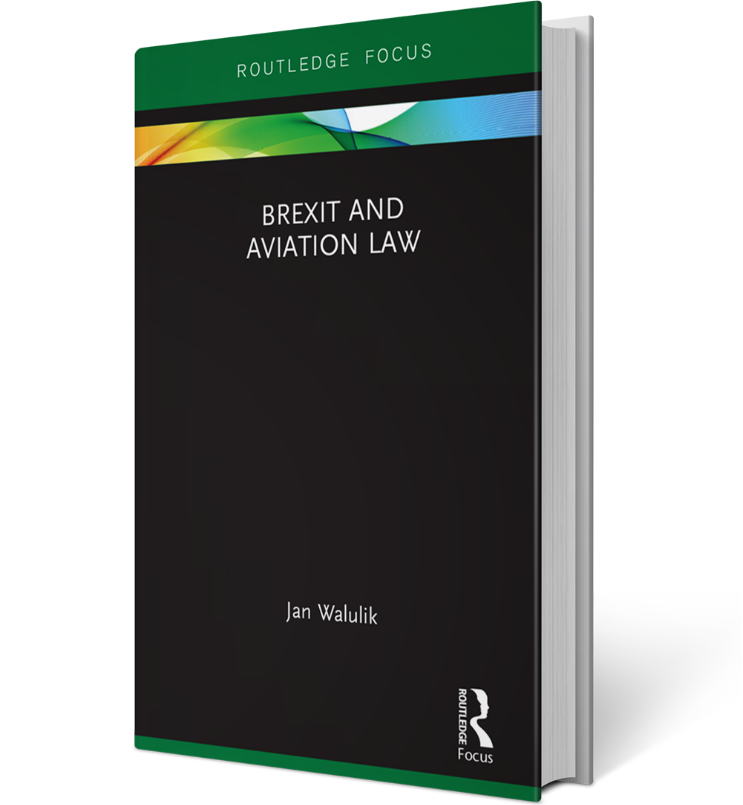
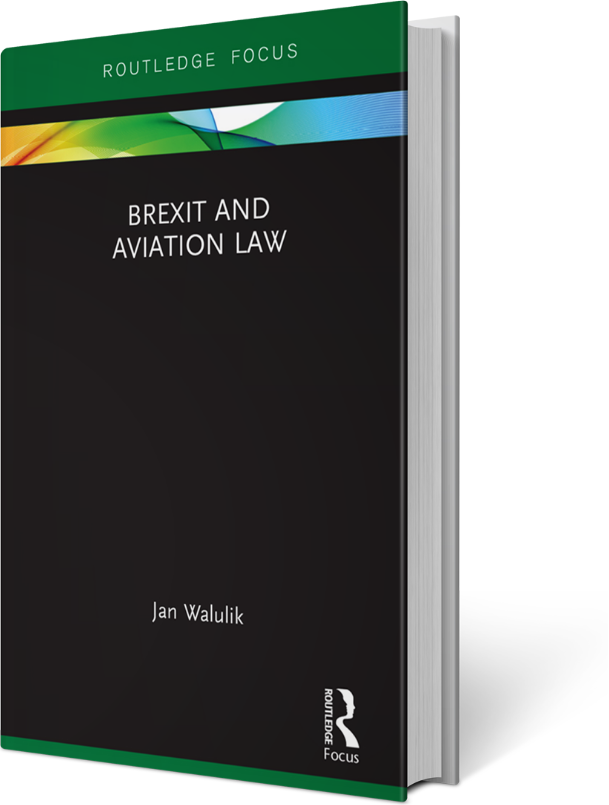
dynamic book images on home page

diff --git a/src/templates/home/carousel/carousel.tsx b/src/templates/home/carousel/carousel.tsx
@@ -1,77 +1,107 @@
 import styled from "@emotion/styled"
 import React, { useState } from "react"
-import { graphql, useStaticQuery } from "gatsby"
-import Img from "gatsby-image"
+import { graphql, useStaticQuery, Link } from "gatsby"
 
-import { CarouselCounter } from "./carousel-counter";
-import { CarouselArrows } from "./carousel-arrows";
+import { CarouselCounter } from "./carousel-counter"
+import { CarouselArrows } from "./carousel-arrows"
+import { spacings } from "../../../constants"
 
 export function modulo(mod: number): (n: number) => number {
-  return (n: number) => ((n % mod) + mod) % mod;
+  return (n: number) => ((n % mod) + mod) % mod
 }
 
 const CarouselMain = styled.div`
   display: flex;
   justify-content: center;
-`;
+  margin-bottom: ${spacings.space40}px;
+`
+
+const NavigationSC = styled.div`
+  margin-right: ${spacings.space80}px;
+`
 
 const CarouselArrowsContainer = styled.div`
   margin-bottom: 70px;
-`;
+`
 
 const Books = styled.div`
-  display: flex;
-  justify-content: center;
-  margin-top: -35px;
-`; 
+  display: grid;
+  width: 100%;
+  grid-template-columns: repeat(3, 33%);
+`
 
 const BookContainer = styled.div`
-  height: 400px;
-  width: 300px;
-  &:not(:first-child) {
-    margin-left: -40px;
+  img {
+    max-width: 100%;
   }
-`; 
+`
 
 export const Carousel: React.FC = () => {
-  const [page, setPage] = useState(0);
-  const numberOfPages = 2;
-  const modNumberOfPages = modulo(numberOfPages);
-  const nextPage = () => setPage(modNumberOfPages(page + 1));
-  const prevPage = () => setPage(modNumberOfPages(page - 1));
-  const data = useStaticQuery(graphql`
-    query BooksQuery {
-      file(relativePath: { eq: "content-brexit-book.png" }) {
-        childImageSharp {
-          fluid(maxWidth: 400) {
-            ...GatsbyImageSharpFluid_noBase64
+  const [page, setPage] = useState(0)
+
+  const result = useStaticQuery(graphql`
+    query BooksQuery2 {
+      books: allMarkdownRemark(
+        limit: 1000
+        filter: { frontmatter: { templateKey: { eq: "book-page" } } }
+      ) {
+        edges {
+          node {
+            fields {
+              slug
+            }
+            frontmatter {
+              title
+              publisher
+              image {
+                childImageSharp {
+                  fixed(width: 600) {
+                    ...GatsbyImageSharpFixed_noBase64
+                  }
+                }
+              }
+            }
           }
         }
       }
     }
   `)
 
-  return (
-  <div>
-    <CarouselMain>
-      <div>
-        <CarouselArrowsContainer>
-          <CarouselArrows next={nextPage} prev={prevPage} />
-        </CarouselArrowsContainer>
-        <CarouselCounter current={page + 1} max={numberOfPages} />
-      </div>
-      <Books>
-        <BookContainer>
-          <Img fluid={data.file.childImageSharp.fluid} />
-        </BookContainer>
-        <BookContainer>
-          <Img fluid={data.file.childImageSharp.fluid} />
-        </BookContainer>
-        <BookContainer>
-          <Img fluid={data.file.childImageSharp.fluid} />
-        </BookContainer>
-      </Books>
-    </CarouselMain>
+  const ITEMS_PER_PAGE = 3
+  const { edges } = result.books
+  const numberOfPages = Math.ceil(edges.length / ITEMS_PER_PAGE)
+  const modNumberOfPages = modulo(numberOfPages)
+  const nextPage = () => setPage(modNumberOfPages(page + 1))
+  const prevPage = () => setPage(modNumberOfPages(page - 1))
 
-  </div>
-)};
+  const indexOfFirstItem = page * ITEMS_PER_PAGE
+  const edgesToDisplay = result.books.edges.slice(
+    indexOfFirstItem,
+    indexOfFirstItem + ITEMS_PER_PAGE
+  )
+
+  return (
+    <div>
+      <CarouselMain>
+        <NavigationSC>
+          <CarouselArrowsContainer>
+            <CarouselArrows next={nextPage} prev={prevPage} />
+          </CarouselArrowsContainer>
+          <CarouselCounter current={page + 1} max={numberOfPages} />
+        </NavigationSC>
+        <Books>
+          {edgesToDisplay.map(edge => (
+            <BookContainer>
+              {/* <Img fixed={edge.node.frontmatter.image.childImageSharp.fixed} /> */}
+              <Link to={edge.node.fields.slug}>
+                <img
+                  src={edge.node.frontmatter.image.childImageSharp.fixed.src}
+                />
+              </Link>
+            </BookContainer>
+          ))}
+        </Books>
+      </CarouselMain>
+    </div>
+  )
+}

diff --git a/src/templates/books-page.tsx b/src/templates/books-page.tsx
@@ -24,6 +24,29 @@ const Books: React.FC = props => {
 
 export default Books
 
+export const booksListFields = graphql`
+  fragment booksListFields on MarkdownRemarkConnection {
+    edges {
+      node {
+        fields {
+          slug
+        }
+        frontmatter {
+          title
+          publisher
+          image {
+            childImageSharp {
+              fluid(maxWidth: 2048, quality: 100) {
+                ...GatsbyImageSharpFluid
+              }
+            }
+          }
+        }
+      }
+    }
+  }
+`
+
 export const pageQuery = graphql`
   query BooksPageTemplate {
     markdownRemark(frontmatter: { templateKey: { eq: "books-page" } }) {
@@ -32,28 +55,11 @@ export const pageQuery = graphql`
         title
       }
     }
-    allMarkdownRemark(
+    allMarkdownRemark: allMarkdownRemark(
       limit: 1000
       filter: { frontmatter: { templateKey: { eq: "book-page" } } }
     ) {
-      edges {
-        node {
-          fields {
-            slug
-          }
-          frontmatter {
-            title
-            publisher
-            image {
-              childImageSharp {
-                fluid(maxWidth: 2048, quality: 100) {
-                  ...GatsbyImageSharpFluid
-                }
-              }
-            }
-          }
-        }
-      }
+      ...booksListFields
     }
   }
 `

diff --git a/src/constants.ts b/src/constants.ts
@@ -43,5 +43,6 @@ export const sizes = {
 }
 
 export const spacings = {
+  space40: 40,
   space80: 80,
 }

diff --git a/src/pages/books/harmonising-regulatory2.md b/src/pages/books/harmonising-regulatory2.md
@@ -1,0 +1,12 @@
+---
+templateKey: book-page
+title: Harmonising
+image: /assets/brexit-and-aviation-law.png
+text: |-
+  Harmonising law
+publisher: bbb
+---
+
+## Harmonising
+
+Lorem ipsum dolor sit amet, consectetur adipisicing elit, sed do eiusmod tempor incididunt ut labore et dolore magna aliqua. Ut enim ad minim veniam, quis nostrud exercitation ullamco laboris nisi ut aliquip ex ea commodo consequat. Duis aute irure dolor in reprehenderit in voluptate velit esse cillum dolore eu fugiat nulla pariatur. Excepteur sint occaecat cupidatat non proident, sunt in culpa qui officia deserunt mollit anim id est labo

diff --git a/src/pages/books/harmonising-regulatory3.md b/src/pages/books/harmonising-regulatory3.md
@@ -1,0 +1,12 @@
+---
+templateKey: book-page
+title: Harmonising
+image: /assets/brexit-and-aviation-law.png
+text: |-
+  Harmonising law
+publisher: bbb
+---
+
+## Harmonising
+
+Lorem ipsum dolor sit amet, consectetur adipisicing elit, sed do eiusmod tempor incididunt ut labore et dolore magna aliqua. Ut enim ad minim veniam, quis nostrud exercitation ullamco laboris nisi ut aliquip ex ea commodo consequat. Duis aute irure dolor in reprehenderit in voluptate velit esse cillum dolore eu fugiat nulla pariatur. Excepteur sint occaecat cupidatat non proident, sunt in culpa qui officia deserunt mollit anim id est labo
